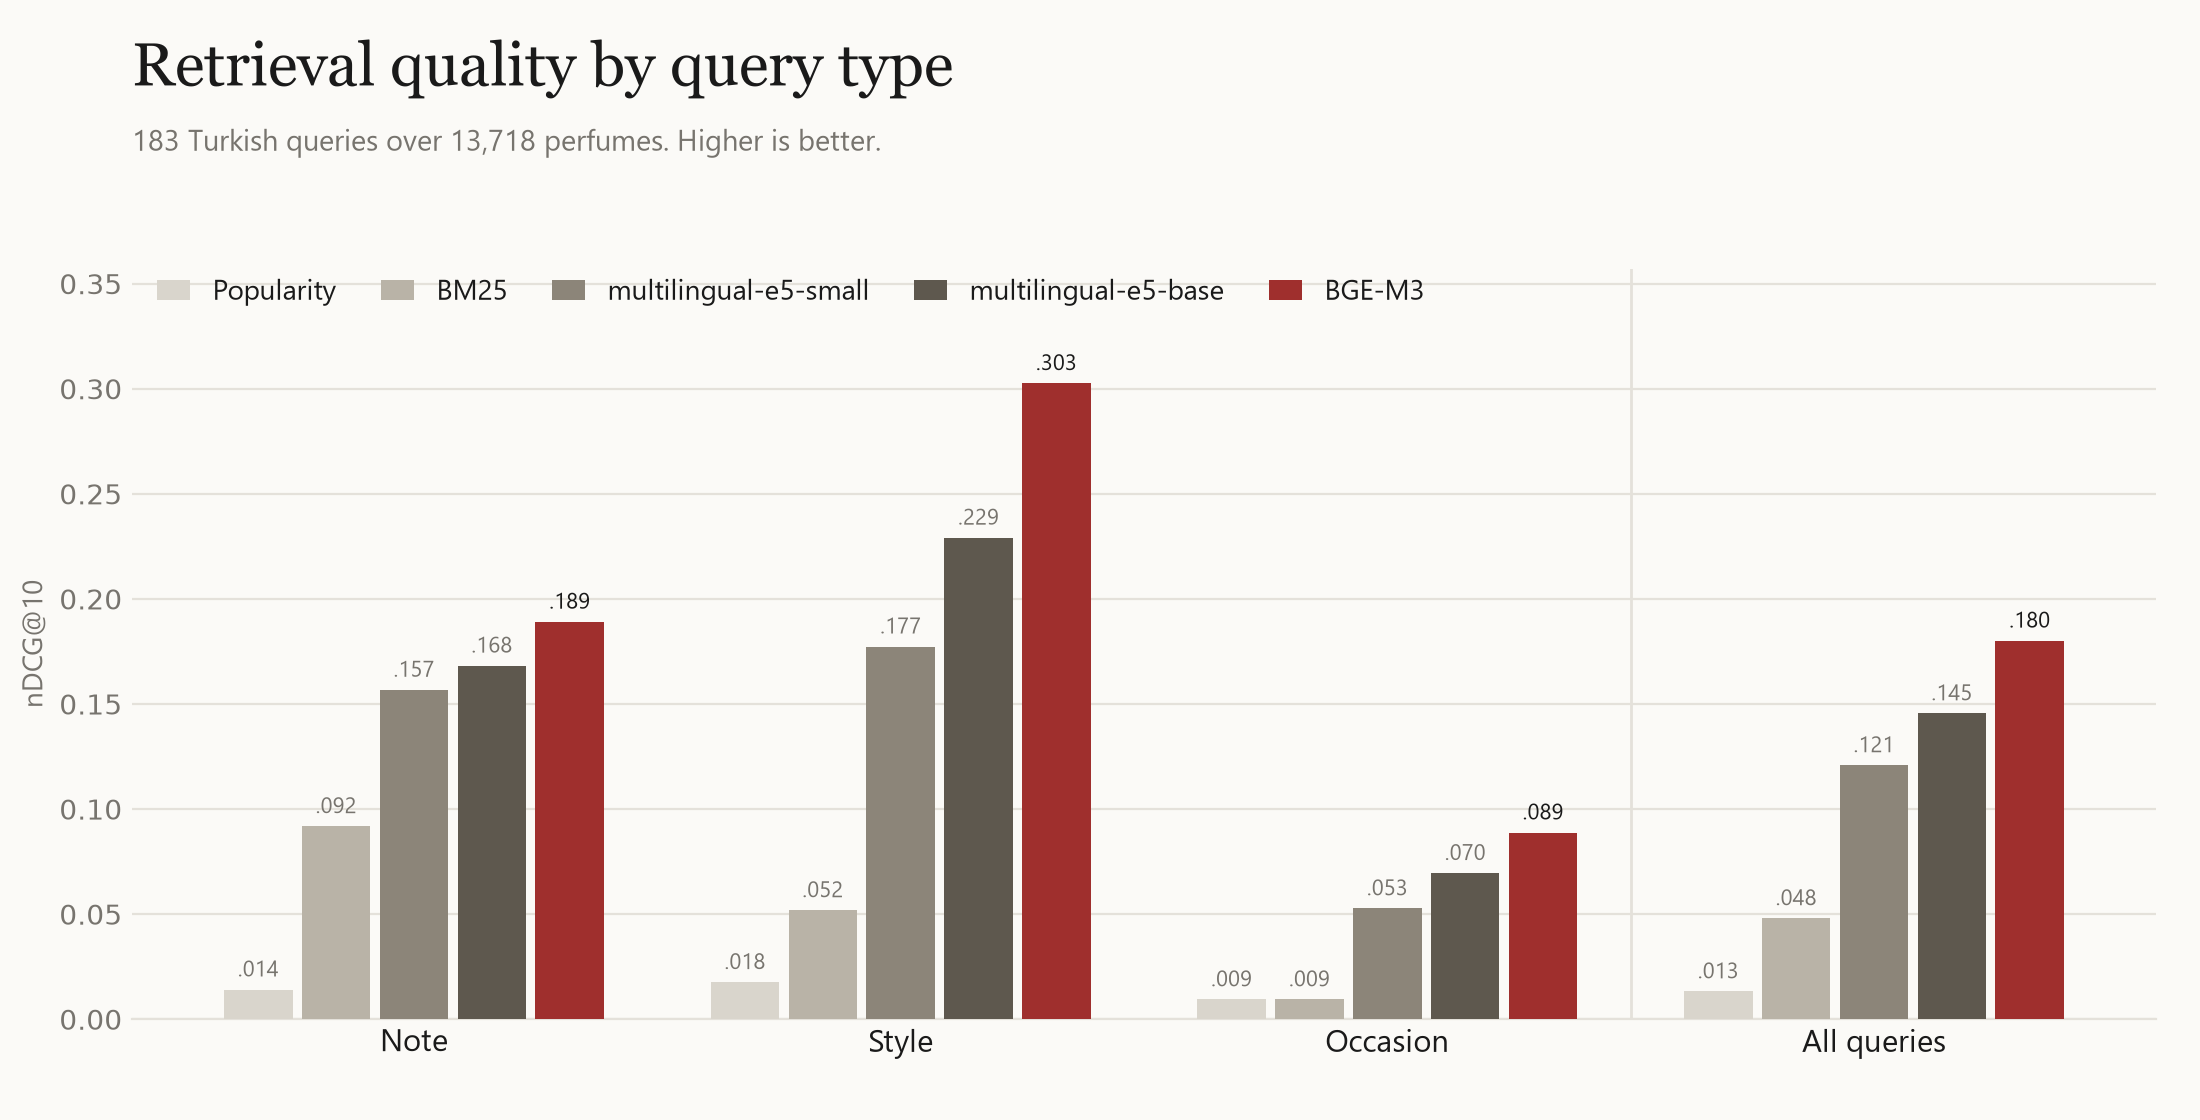
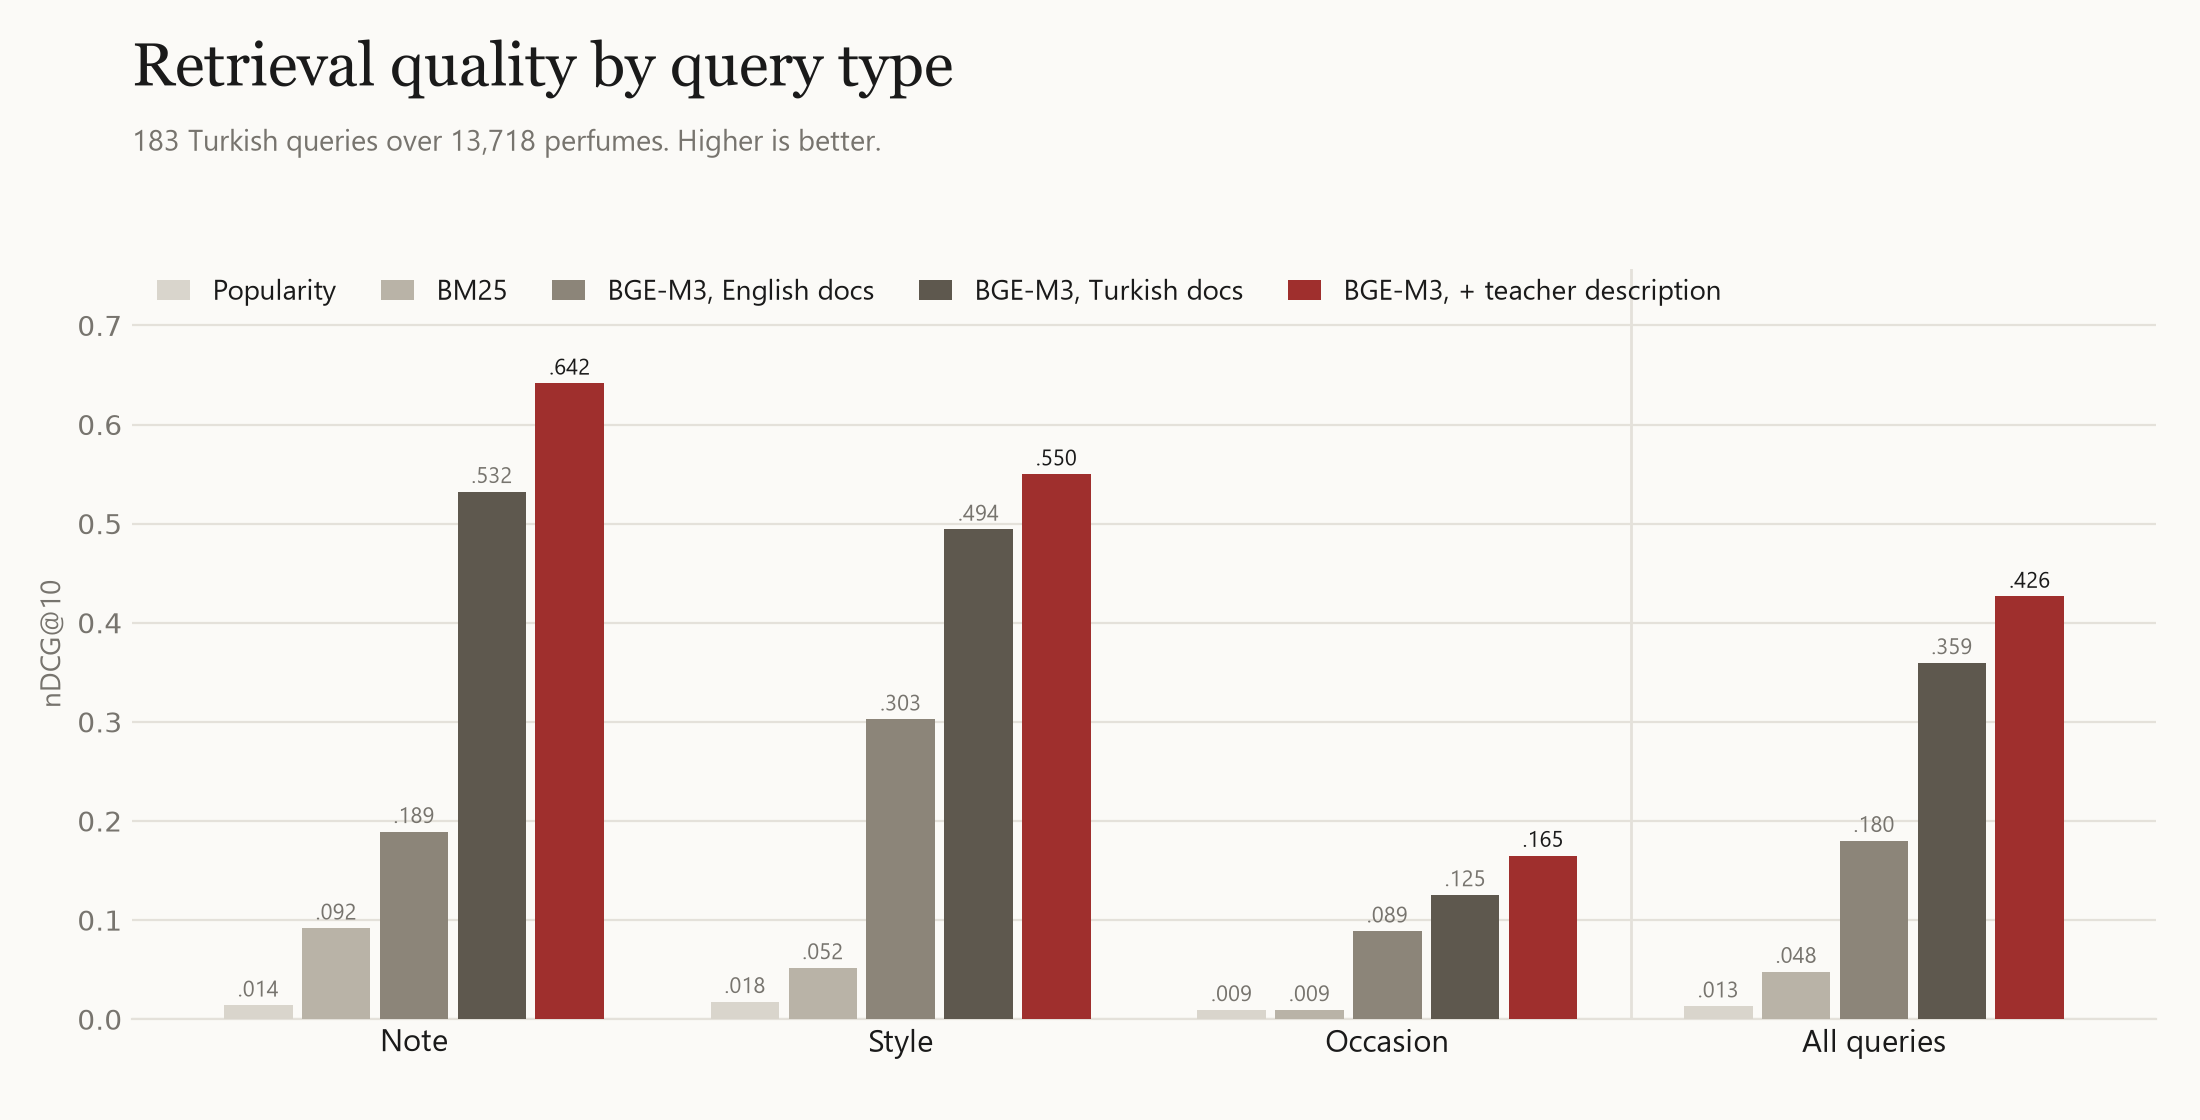
feat(retrieve): Turkish and teacher-expanded document text for dense retrieval (#6)
Adds --docs {en,tr,desc} to retrieve/dense.py. 'tr' maps notes/accords to Turkish
via distill/tr_names.json; 'desc' appends the teacher's Turkish description.
BGE-M3 nDCG@10 goes 0.180 -> 0.359 (tr) -> 0.426 (desc); occasion 0.089 -> 0.165.

diff --git a/retrieve/dense.py b/retrieve/dense.py
@@ -1,11 +1,15 @@
-"""Zero-shot dense baselines: off-the-shelf multilingual embedders, no fine-tuning.
+"""Dense retrieval with off-the-shelf multilingual embedders (no fine-tuning).
 
-Perfumes are embedded from the same English text BM25 sees; Turkish queries are
-embedded as-is. Cosine similarity, top 100. Embeddings are cached in runs/cache/.
+Turkish queries are embedded as-is. Perfumes can be embedded from three texts:
+  en    the English fields BM25 sees (name, brand, gender, accords, notes)
+  tr    the same fields with notes/accords mapped to Turkish via distill/tr_names.json (no LLM)
+  desc  tr + the teacher's Turkish description from data/teacher.clean.jsonl (document expansion)
+Cosine similarity, top 100. Document embeddings are cached in runs/cache/.
 
-Run: uv run python retrieve/dense.py e5-small
-     uv run python eval/evaluate.py runs/dense-e5-small.jsonl
+Run: uv run python retrieve/dense.py bge-m3 --docs desc
+     uv run python eval/evaluate.py runs/dense-bge-m3-desc.jsonl
 """
+import argparse
 import json
 import os
 import sys
@@ -26,34 +30,62 @@ MODELS = {
     "bge-m3": ("BAAI/bge-m3", "", ""),
 }
 TOP = 100
+GENDER_TR = {"men": "erkek", "women": "kadın", "unisex": "unisex"}
+
+
+def tr_text(p: dict, tr: dict) -> str:
+    n, a = tr["notes"], tr["accords"]
+    return " ".join([p["name"], p["brand"], GENDER_TR.get(p["gender"], p["gender"]), *(a.get(x, x) for x in p["accords"]),
+                     *(n.get(x, x) for k in ("top", "middle", "base") for x in p[k])])
+
+
+def doc_builder(kind: str, desc_path: str = "data/teacher.clean.jsonl"):
+    if kind == "en":
+        return doc_text
+    with open("distill/tr_names.json", encoding="utf-8") as f:
+        tr = json.load(f)
+    if kind == "tr":
+        return lambda p: tr_text(p, tr)
+    with open(desc_path, encoding="utf-8") as f:
+        desc = {r["id"]: r["description"] for r in map(json.loads, f)}
+    # Perfumes dropped by distill/check.py have no description and fall back to the Turkish fields alone.
+    return lambda p: (tr_text(p, tr) + " " + desc.get(p["id"], "")).strip()
 
 
 def embed(model: SentenceTransformer, texts: list[str], batch: int) -> np.ndarray:
     return model.encode(texts, batch_size=batch, normalize_embeddings=True, convert_to_numpy=True, show_progress_bar=False)
 
 
-def run(name: str) -> str:
-    model_id, qp, dp = MODELS[name]
+def load_model(model_id: str) -> SentenceTransformer:
     device = "cuda" if torch.cuda.is_available() else "cpu"
     model = SentenceTransformer(model_id, device=device)
     if device == "cuda":
         model.half()  # 8 GB laptop GPU: fp16 halves memory, retrieval quality is unaffected in practice
     model.max_seq_length = 256
+    return model
+
+
+def run(name: str, docs_kind: str = "en", model_id: str | None = None) -> str:
+    """Rank all eval queries. `model_id` overrides the MODELS entry (used for fine-tuned checkpoints)."""
+    mid, qp, dp = MODELS[name] if name in MODELS else (None, "", "")
+    model = load_model(model_id or mid)
+    tag = name if docs_kind == "en" else f"{name}-{docs_kind}"
 
     docs = corpus()
     os.makedirs("runs/cache", exist_ok=True)
-    cache = f"runs/cache/{name}-docs.npy"
+    cache = f"runs/cache/{tag}-docs.npy"
     if os.path.exists(cache):
         D = np.load(cache)
     else:
-        D = embed(model, [dp + doc_text(p) for p in docs], batch=64)
+        text = doc_builder(docs_kind)
+        D = embed(model, [dp + text(p) for p in docs], batch=64)
         np.save(cache, D)
     assert D.shape[0] == len(docs), "stale cache: delete runs/cache and rerun"
 
     queries = load_queries()
     Q = embed(model, [qp + q["query"] for q in queries], batch=64)
     S = Q.astype(np.float32) @ D.astype(np.float32).T
-    out = f"runs/dense-{name}.jsonl"
+    out = f"runs/dense-{tag}.jsonl"
     with open(out, "w", encoding="utf-8") as f:
         for q, s in zip(queries, S):
             top = np.argsort(-s)[:TOP]
@@ -62,6 +94,9 @@ def run(name: str) -> str:
 
 
 if __name__ == "__main__":
-    names = sys.argv[1:] or list(MODELS)
-    for n in names:
-        print("wrote", run(n))
+    ap = argparse.ArgumentParser()
+    ap.add_argument("models", nargs="*", default=list(MODELS))
+    ap.add_argument("--docs", choices=["en", "tr", "desc"], default="en")
+    args = ap.parse_args()
+    for n in args.models:
+        print("wrote", run(n, args.docs))

diff --git a/eval/plot.py b/eval/plot.py
@@ -16,12 +16,13 @@ sys.path.insert(0, "retrieve")
 from evaluate import evaluate, load  # noqa: E402
 
 # Runs shown, in order. Missing run files are skipped so the chart grows with the project.
+# The e5 runs stay in the README table; the chart keeps five bars per group to stay readable.
 RUNS = [
     ("runs/popularity.jsonl", "Popularity"),
     ("runs/bm25.jsonl", "BM25"),
-    ("runs/dense-e5-small.jsonl", "multilingual-e5-small"),
-    ("runs/dense-e5-base.jsonl", "multilingual-e5-base"),
-    ("runs/dense-bge-m3.jsonl", "BGE-M3"),
+    ("runs/dense-bge-m3.jsonl", "BGE-M3, English docs"),
+    ("runs/dense-bge-m3-tr.jsonl", "BGE-M3, Turkish docs"),
+    ("runs/dense-bge-m3-desc.jsonl", "BGE-M3, + teacher description"),
 ]
 TYPES = [("note", "Note"), ("style", "Style"), ("occasion", "Occasion"), ("all", "All queries")]
 

diff --git a/README.md b/README.md
@@ -18,7 +18,9 @@ Fragrantica.com Fragrance Dataset (Kaggle, olgagmiufana1, v3, 2024-09-21), CC BY
 | Profile | `uv run --with pandas python profile_data.py` | stdout |
 | Clean | `uv run --with pandas python clean.py` | `data/perfumes.jsonl` (24,063 perfumes) |
 | BM25 baseline | `python retrieve/bm25.py` | `runs/bm25.jsonl` |
-| Dense baselines | `uv run python retrieve/dense.py` | `runs/dense-*.jsonl` |
+| Dense baselines | `uv run python retrieve/dense.py [--docs en\|tr\|desc]` | `runs/dense-*.jsonl` |
+| Teacher data | `uv run python distill/generate.py` (needs local llama-server, see script) | `data/teacher.jsonl` |
+| Teacher QA | `uv run python distill/check.py --write` | `data/teacher.clean.jsonl` |
 | Charts | `uv run python eval/plot.py` | `assets/*.png` |
 
 `fra_cleaned.csv` is `;`-separated, decimal comma, cp1252-encoded (`0x99` = ™, `0x92` = ’). Cleaning lowercases notes, strips ®/™, dedupes notes per tier, and title-cases name/brand slugs.
@@ -46,11 +48,24 @@ nDCG@10 per query type (`uv run python eval/evaluate.py runs/<run>.jsonl` prints
 | BM25 on raw Turkish query (`retrieve/bm25.py`) | 0.048 | 0.092 | 0.052 | 0.009 |
 | multilingual-e5-small, zero-shot (`retrieve/dense.py`) | 0.121 | 0.157 | 0.177 | 0.053 |
 | multilingual-e5-base, zero-shot | 0.145 | 0.168 | 0.229 | 0.070 |
-| BGE-M3, zero-shot | **0.180** | **0.189** | **0.303** | **0.089** |
+| BGE-M3, zero-shot | 0.180 | 0.189 | 0.303 | 0.089 |
+| multilingual-e5-base, Turkish docs (`--docs tr`) | 0.322 | 0.467 | 0.411 | 0.142 |
+| BGE-M3, Turkish docs (`--docs tr`) | 0.359 | 0.532 | 0.494 | 0.125 |
+| multilingual-e5-base, + teacher description (`--docs desc`) | 0.374 | 0.610 | 0.476 | 0.110 |
+| BGE-M3, + teacher description (`--docs desc`) | **0.426** | **0.642** | **0.550** | **0.165** |
 
 ![Why keyword search fails](assets/vocab-gap.png)
 
 BM25 only helps where a Turkish query shares a token with the English perfume text (e.g. "bergamot", "iris", "neroli"): 137 of 183 queries share none and fall back to the popularity ranking. Off-the-shelf multilingual embedders close the language gap (BGE-M3 is 3.8x BM25 overall), but occasion queries stay weakest: mapping "fireplace" or "first date" to accords is what a fine-tuned retriever has to learn.
+
+### Document expansion
+
+Two cheap changes to the perfume side, with no model training:
+
+- `--docs tr`: notes and accords mapped to Turkish with a fixed table (`distill/tr_names.json`, 300 most frequent notes + all accords). BGE-M3 doubles (0.180 to 0.359); note queries go from 0.189 to 0.532. Cross-lingual matching was the main loss, not model capacity.
+- `--docs desc`: the Turkish fields plus a 2-3 sentence Turkish description written by the local teacher (Qwen3-8B, `distill/generate.py`). Another +19% overall (0.426), and the best occasion score so far (0.165), because descriptions name seasons and settings that raw accords never mention.
+
+Occasion queries are still far behind note and style queries. That gap is the target for retriever fine-tuning on teacher-generated (query, perfume) pairs.
 
 Charts: `uv run python eval/plot.py`.
 
